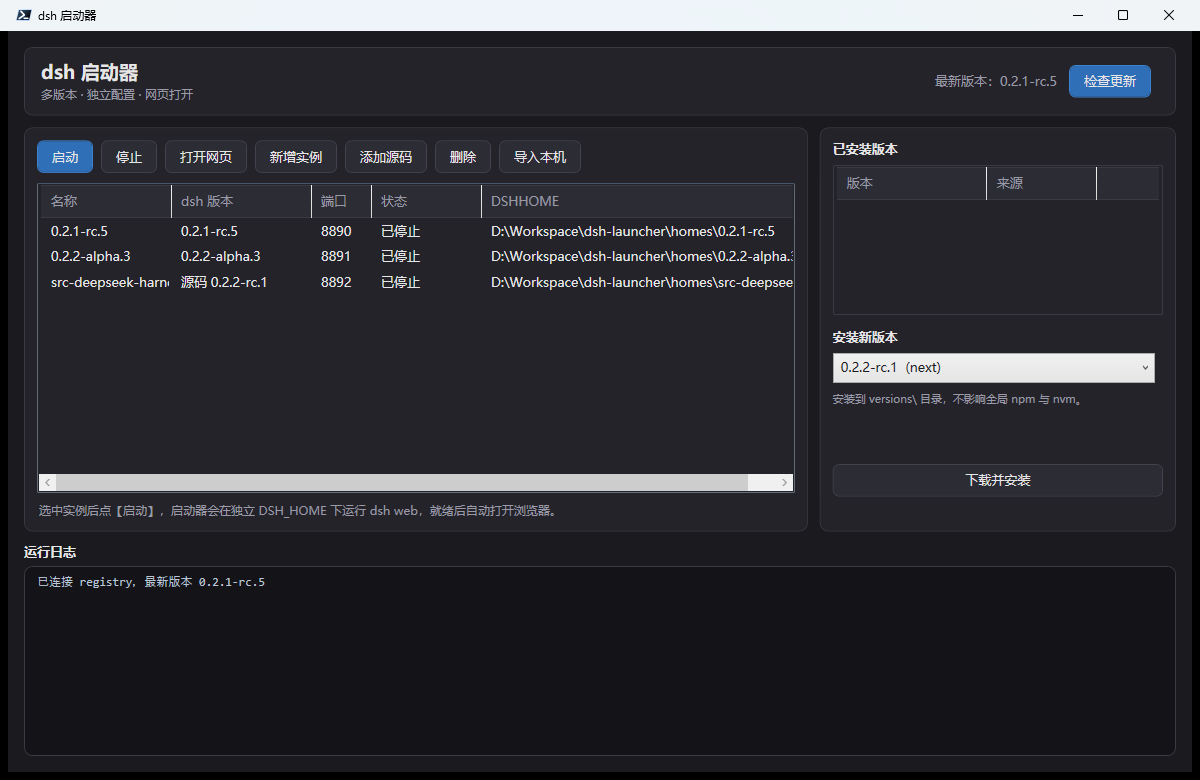
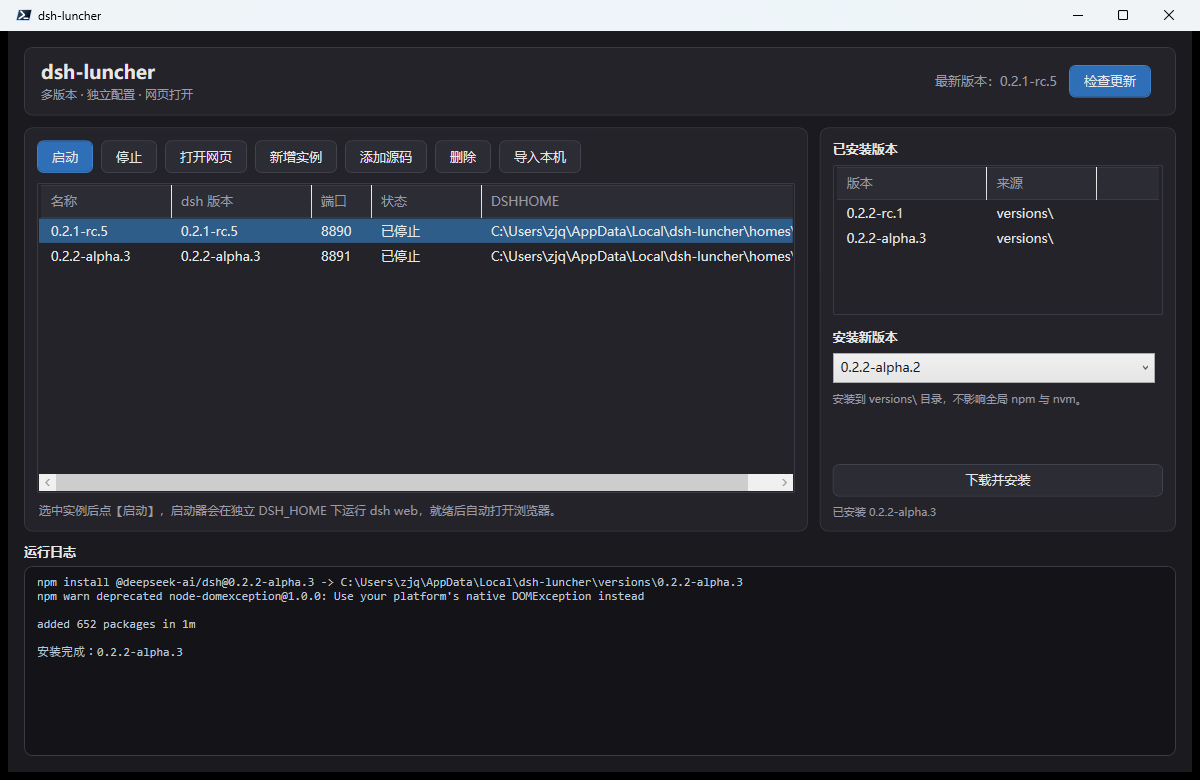
Rename product to dsh-luncher and auto-select first instance

diff --git a/ui.xaml b/ui.xaml
@@ -1,6 +1,6 @@
 <Window xmlns="http://schemas.microsoft.com/winfx/2006/xaml/presentation"
         xmlns:x="http://schemas.microsoft.com/winfx/2006/xaml"
-        Title="dsh 启动器" Height="780" Width="1200"
+        Title="dsh-luncher" Height="780" Width="1200"
         WindowStartupLocation="CenterScreen"
         Background="#1B1B1F" Foreground="#E6E6E6"
         FontFamily="Microsoft YaHei UI" FontSize="13">
@@ -120,7 +120,7 @@
           <ColumnDefinition Width="Auto"/>
         </Grid.ColumnDefinitions>
         <StackPanel Grid.Column="0" Orientation="Vertical">
-          <TextBlock Text="dsh 启动器" FontSize="19" FontWeight="SemiBold"/>
+          <TextBlock Text="dsh-luncher" FontSize="19" FontWeight="SemiBold"/>
           <TextBlock x:Name="txtSubtitle" Text="多版本 · 独立配置 · 网页打开"
                      Foreground="{StaticResource MutedBrush}" FontSize="12" Margin="0,3,0,0"/>
         </StackPanel>
